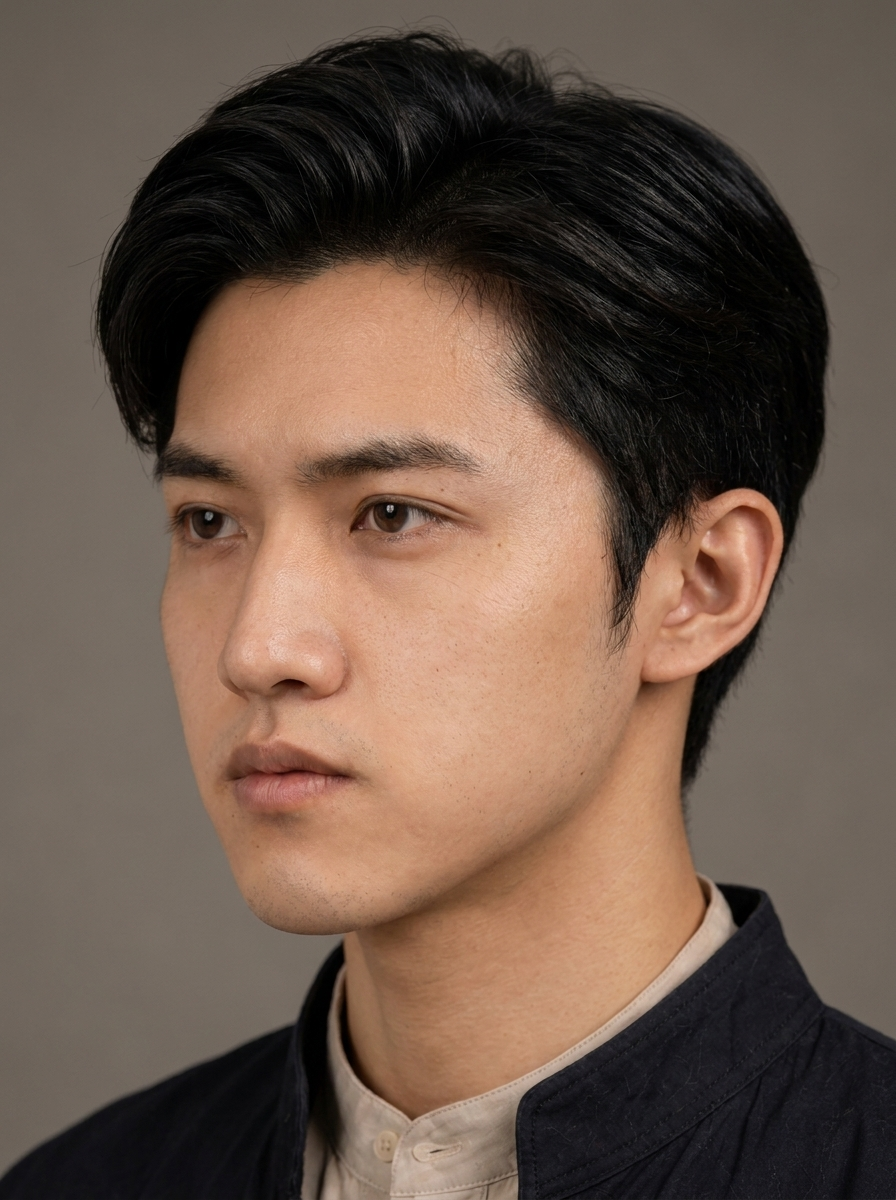
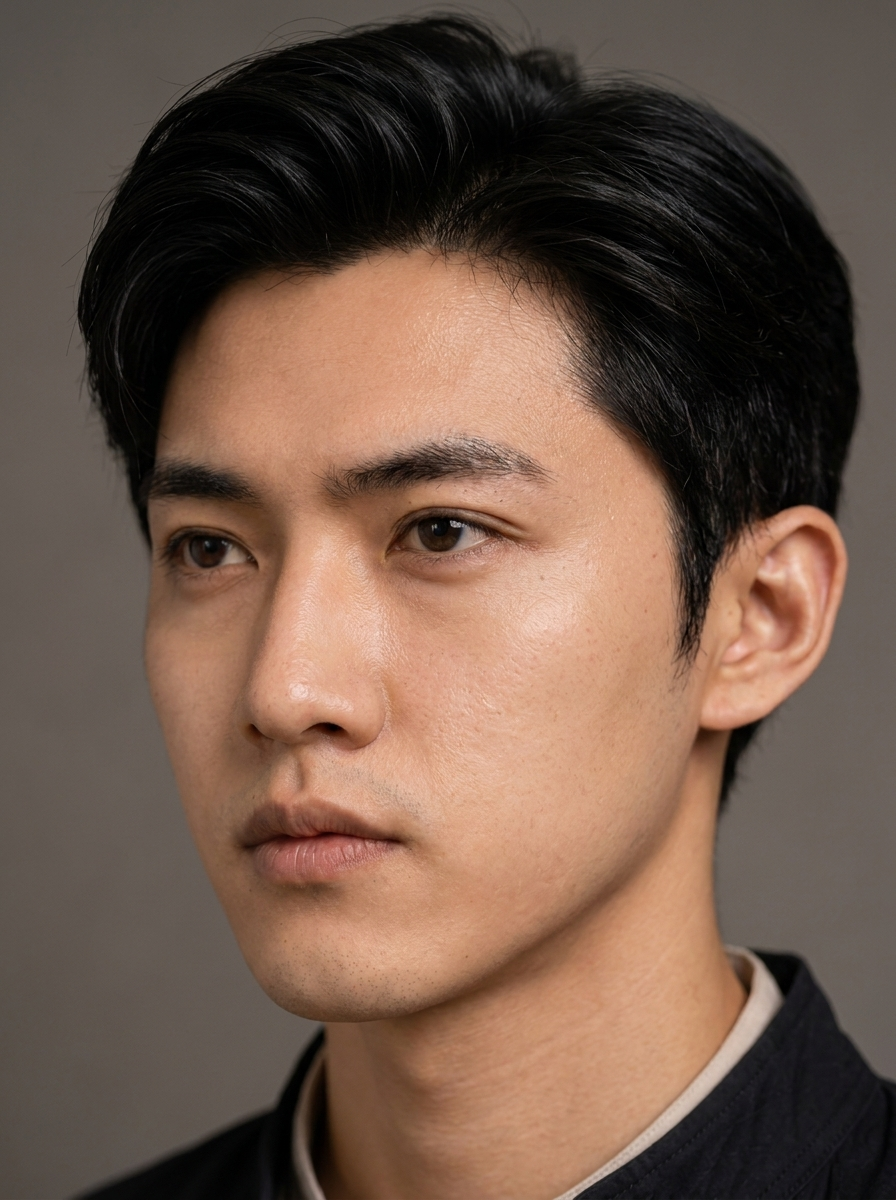
萧子期拆分日常/探险双造型：日常(造型5+面部7+表情12+一致性4)+探险(造型5+一致性4)=37张

diff --git a/index.html b/index.html
@@ -129,7 +129,9 @@ body{background:#0a0a14;color:#ede4d4;font-family:"PingFang SC","Noto Serif SC",
     <div class="nav-major">项目圣经</div>
     <a href="#bible-concept" data-nav="bible-concept">🌿 美术圣经</a>
     <div class="nav-major">主角三人组</div>
-    <a href="#sec-xiaoziqi" data-nav="xiaoziqi">🔬 萧子期 · 造型</a>
+    <a href="#sec-xiaoziqi" data-nav="xiaoziqi">🔬 萧子期 · 日常</a>
+    <a href="#sec-xiaoziqi-adventure" data-nav="xiaoziqi-adventure" class="nav-sub">🗡 探险造型</a>
+    <a href="#sec-xiaoziqi-adventure-cons" data-nav="xiaoziqi-adventure-cons" class="nav-sub">🗡 探险一致性</a>
     <a href="#sec-xiaoziqi-face" data-nav="xiaoziqi-face" class="nav-sub">📐 面部资产</a>
     <a href="#sec-xiaoziqi-expr" data-nav="xiaoziqi-expr" class="nav-sub">😶 表情资产</a>
     <a href="#sec-xiaoziqi-consistency" data-nav="xiaoziqi-consistency" class="nav-sub">🔗 一致性</a>
@@ -224,7 +226,7 @@ body{background:#0a0a14;color:#ede4d4;font-family:"PingFang SC","Noto Serif SC",
   </div>
 
   <div id="sec-xiaoziqi"></div>
-  <div class="section-title"><div class="line"></div><span class="label">👘 萧子期 · 造型资产（5张）</span><div class="line"></div></div>
+  <div class="section-title"><div class="line"></div><span class="label">👘 萧子期 · 日常造型（5张）</span><div class="line"></div></div>
   <div class="card-grid" id="grid-xiaoziqi">
     <div class="card" onclick="openLightbox(this.querySelector('img'),'xiaoziqi')">
       <img src="萧子期_正面全身.jpg" alt="萧子期 正面全身" loading="lazy">
@@ -248,9 +250,48 @@ body{background:#0a0a14;color:#ede4d4;font-family:"PingFang SC","Noto Serif SC",
     </div>
   </div>
 
+  <!-- 萧子期 · 探险造型 -->
+  <div id="sec-xiaoziqi-adventure"></div>
+  <div class="section-title"><div class="line"></div><span class="label">🗡 萧子期 · 探险造型（5张）</span><div class="line"></div></div>
+  <div class="card-grid" id="grid-xiaoziqi-adventure">
+    <div class="card" onclick="openLightbox(this.querySelector('img'),'xiaoziqi-adventure')">
+      <img src="萧子期_探险_正面全身.jpg" alt="探险 正面全身" loading="lazy">
+      <div class="card-info"><div class="card-name">正面全身</div><div class="card-desc">外勤调查 · 增加样本包+采菌刀+药烟管</div></div></div>
+    <div class="card" onclick="openLightbox(this.querySelector('img'),'xiaoziqi-adventure')">
+      <img src="萧子期_探险_背面全身.jpg" alt="探险 背面全身" loading="lazy">
+      <div class="card-info"><div class="card-name">背面全身</div><div class="card-desc">背后视角 · 装备包+中和剂可见</div></div></div>
+    <div class="card" onclick="openLightbox(this.querySelector('img'),'xiaoziqi-adventure')">
+      <img src="萧子期_探险_侧面全身.jpg" alt="探险 侧面全身" loading="lazy">
+      <div class="card-info"><div class="card-name">侧面全身</div><div class="card-desc">侧面轮廓 · 行动状态</div></div></div>
+    <div class="card" onclick="openLightbox(this.querySelector('img'),'xiaoziqi-adventure')">
+      <img src="萧子期_探险_特写细节.jpg" alt="探险 特写细节" loading="lazy">
+      <div class="card-info"><div class="card-name">特写细节</div><div class="card-desc">面部+装备细节 · 采菌刀+药烟管</div></div></div>
+    <div class="card" onclick="openLightbox(this.querySelector('img'),'xiaoziqi-adventure')">
+      <img src="萧子期_探险_动态站姿.jpg" alt="探险 动态站姿" loading="lazy">
+      <div class="card-info"><div class="card-name">动态站姿</div><div class="card-desc">调查行动姿态 · 蹲姿采菌</div></div></div>
+  </div>
+
+  <!-- 萧子期 · 探险一致性 -->
+  <div id="sec-xiaoziqi-adventure-cons"></div>
+  <div class="section-title"><div class="line"></div><span class="label">🗡 萧子期 · 探险一致性（4张）</span><div class="line"></div></div>
+  <div class="card-grid" id="grid-xiaoziqi-adventure-cons">
+    <div class="card" onclick="openLightbox(this.querySelector('img'),'xiaoziqi-adventure-cons')">
+      <img src="萧子期_探险_一致性_剪影识别系统.jpg" alt="探险 剪影识别系统" loading="lazy">
+      <div class="card-info"><div class="card-name">剪影识别系统</div><div class="card-desc">外勤装备形态剪影</div></div></div>
+    <div class="card" onclick="openLightbox(this.querySelector('img'),'xiaoziqi-adventure-cons')">
+      <img src="萧子期_探险_一致性_服装结构与材质板.jpg" alt="探险 服装结构与材质板" loading="lazy">
+      <div class="card-info"><div class="card-name">服装结构与材质板</div><div class="card-desc">外勤功能面料·样本包</div></div></div>
+    <div class="card" onclick="openLightbox(this.querySelector('img'),'xiaoziqi-adventure-cons')">
+      <img src="萧子期_探险_一致性_脸部_眼镜_发型细节.jpg" alt="探险 脸部眼镜发型细节" loading="lazy">
+      <div class="card-info"><div class="card-name">脸部+眼镜+发型细节</div><div class="card-desc">外勤状态锁脸参考</div></div></div>
+    <div class="card" onclick="openLightbox(this.querySelector('img'),'xiaoziqi-adventure-cons')">
+      <img src="萧子期_探险_一致性_随身物资产.jpg" alt="探险 随身物资产" loading="lazy">
+      <div class="card-info"><div class="card-name">随身物资产</div><div class="card-desc">采菌刀+药烟管+样本盒+中和剂</div></div></div>
+  </div>
+
   <!-- 萧子期 · 面部资产 -->
   <div id="sec-xiaoziqi-face"></div>
-  <div class="section-title"><div class="line"></div><span class="label">📐 萧子期 · 面部资产（7张）</span><div class="line"></div></div>
+  <div class="section-title"><div class="line"></div><span class="label">📐 萧子期 · 日常面部（7张）</span><div class="line"></div></div>
   <div class="card-grid" id="grid-xiaoziqi-face">
     <div class="card" onclick="openLightbox(this.querySelector('img'),'xiaoziqi-face')">
       <img src="萧子期_面部_正面正视.jpg" alt="正面正视" loading="lazy">
@@ -284,7 +325,7 @@ body{background:#0a0a14;color:#ede4d4;font-family:"PingFang SC","Noto Serif SC",
 
   <!-- 萧子期 · 表情资产 -->
   <div id="sec-xiaoziqi-expr"></div>
-  <div class="section-title"><div class="line"></div><span class="label">😶 萧子期 · 表情资产（12张）</span><div class="line"></div></div>
+  <div class="section-title"><div class="line"></div><span class="label">😶 萧子期 · 日常表情（12张）</span><div class="line"></div></div>
   <div class="card-grid" id="grid-xiaoziqi-expr">
     <div class="card" onclick="openLightbox(this.querySelector('img'),'xiaoziqi-expr')">
       <img src="萧子期_表情_默认状态.jpg" alt="默认状态" loading="lazy">
@@ -338,7 +379,7 @@ body{background:#0a0a14;color:#ede4d4;font-family:"PingFang SC","Noto Serif SC",
 
   <!-- 萧子期 · 一致性资产 -->
   <div id="sec-xiaoziqi-consistency"></div>
-  <div class="section-title"><div class="line"></div><span class="label">🔗 萧子期 · 一致性资产（4张）</span><div class="line"></div></div>
+  <div class="section-title"><div class="line"></div><span class="label">🔗 萧子期 · 日常一致性（4张）</span><div class="line"></div></div>
   <div class="card-grid" id="grid-xiaoziqi-consistency">
     <div class="card" onclick="openLightbox(this.querySelector('img'),'xiaoziqi-consistency')">
       <img src="萧子期_一致性_剪影识别系统.jpg" alt="剪影识别系统" loading="lazy">
@@ -926,7 +967,7 @@ body{background:#0a0a14;color:#ede4d4;font-family:"PingFang SC","Noto Serif SC",
   <!-- Footer -->
   <div class="footer">
     不思异：本草奇探 · 角色造型与视觉资产图集<br>
-    5 位角色 · 140 张造型已入库 · 三主角各28张+神秘老者28张+虹姐28张
+    5 位角色 · 149 张造型已入库 · 萧子期37张(日常28+探险9)+陈宇晨28+程雨馨28+神秘老者28+虹姐28
   </div>
 
 </div>
@@ -1128,6 +1169,8 @@ var sectionMap = {
   "top":"#top",
   "bible-concept":"#bible-concept",
   "xiaoziqi":"#sec-xiaoziqi",
+  "xiaoziqi-adventure":"#sec-xiaoziqi-adventure",
+  "xiaoziqi-adventure-cons":"#sec-xiaoziqi-adventure-cons",
   "xiaoziqi-face":"#sec-xiaoziqi-face",
   "xiaoziqi-expr":"#sec-xiaoziqi-expr",
   "xiaoziqi-consistency":"#sec-xiaoziqi-consistency",
